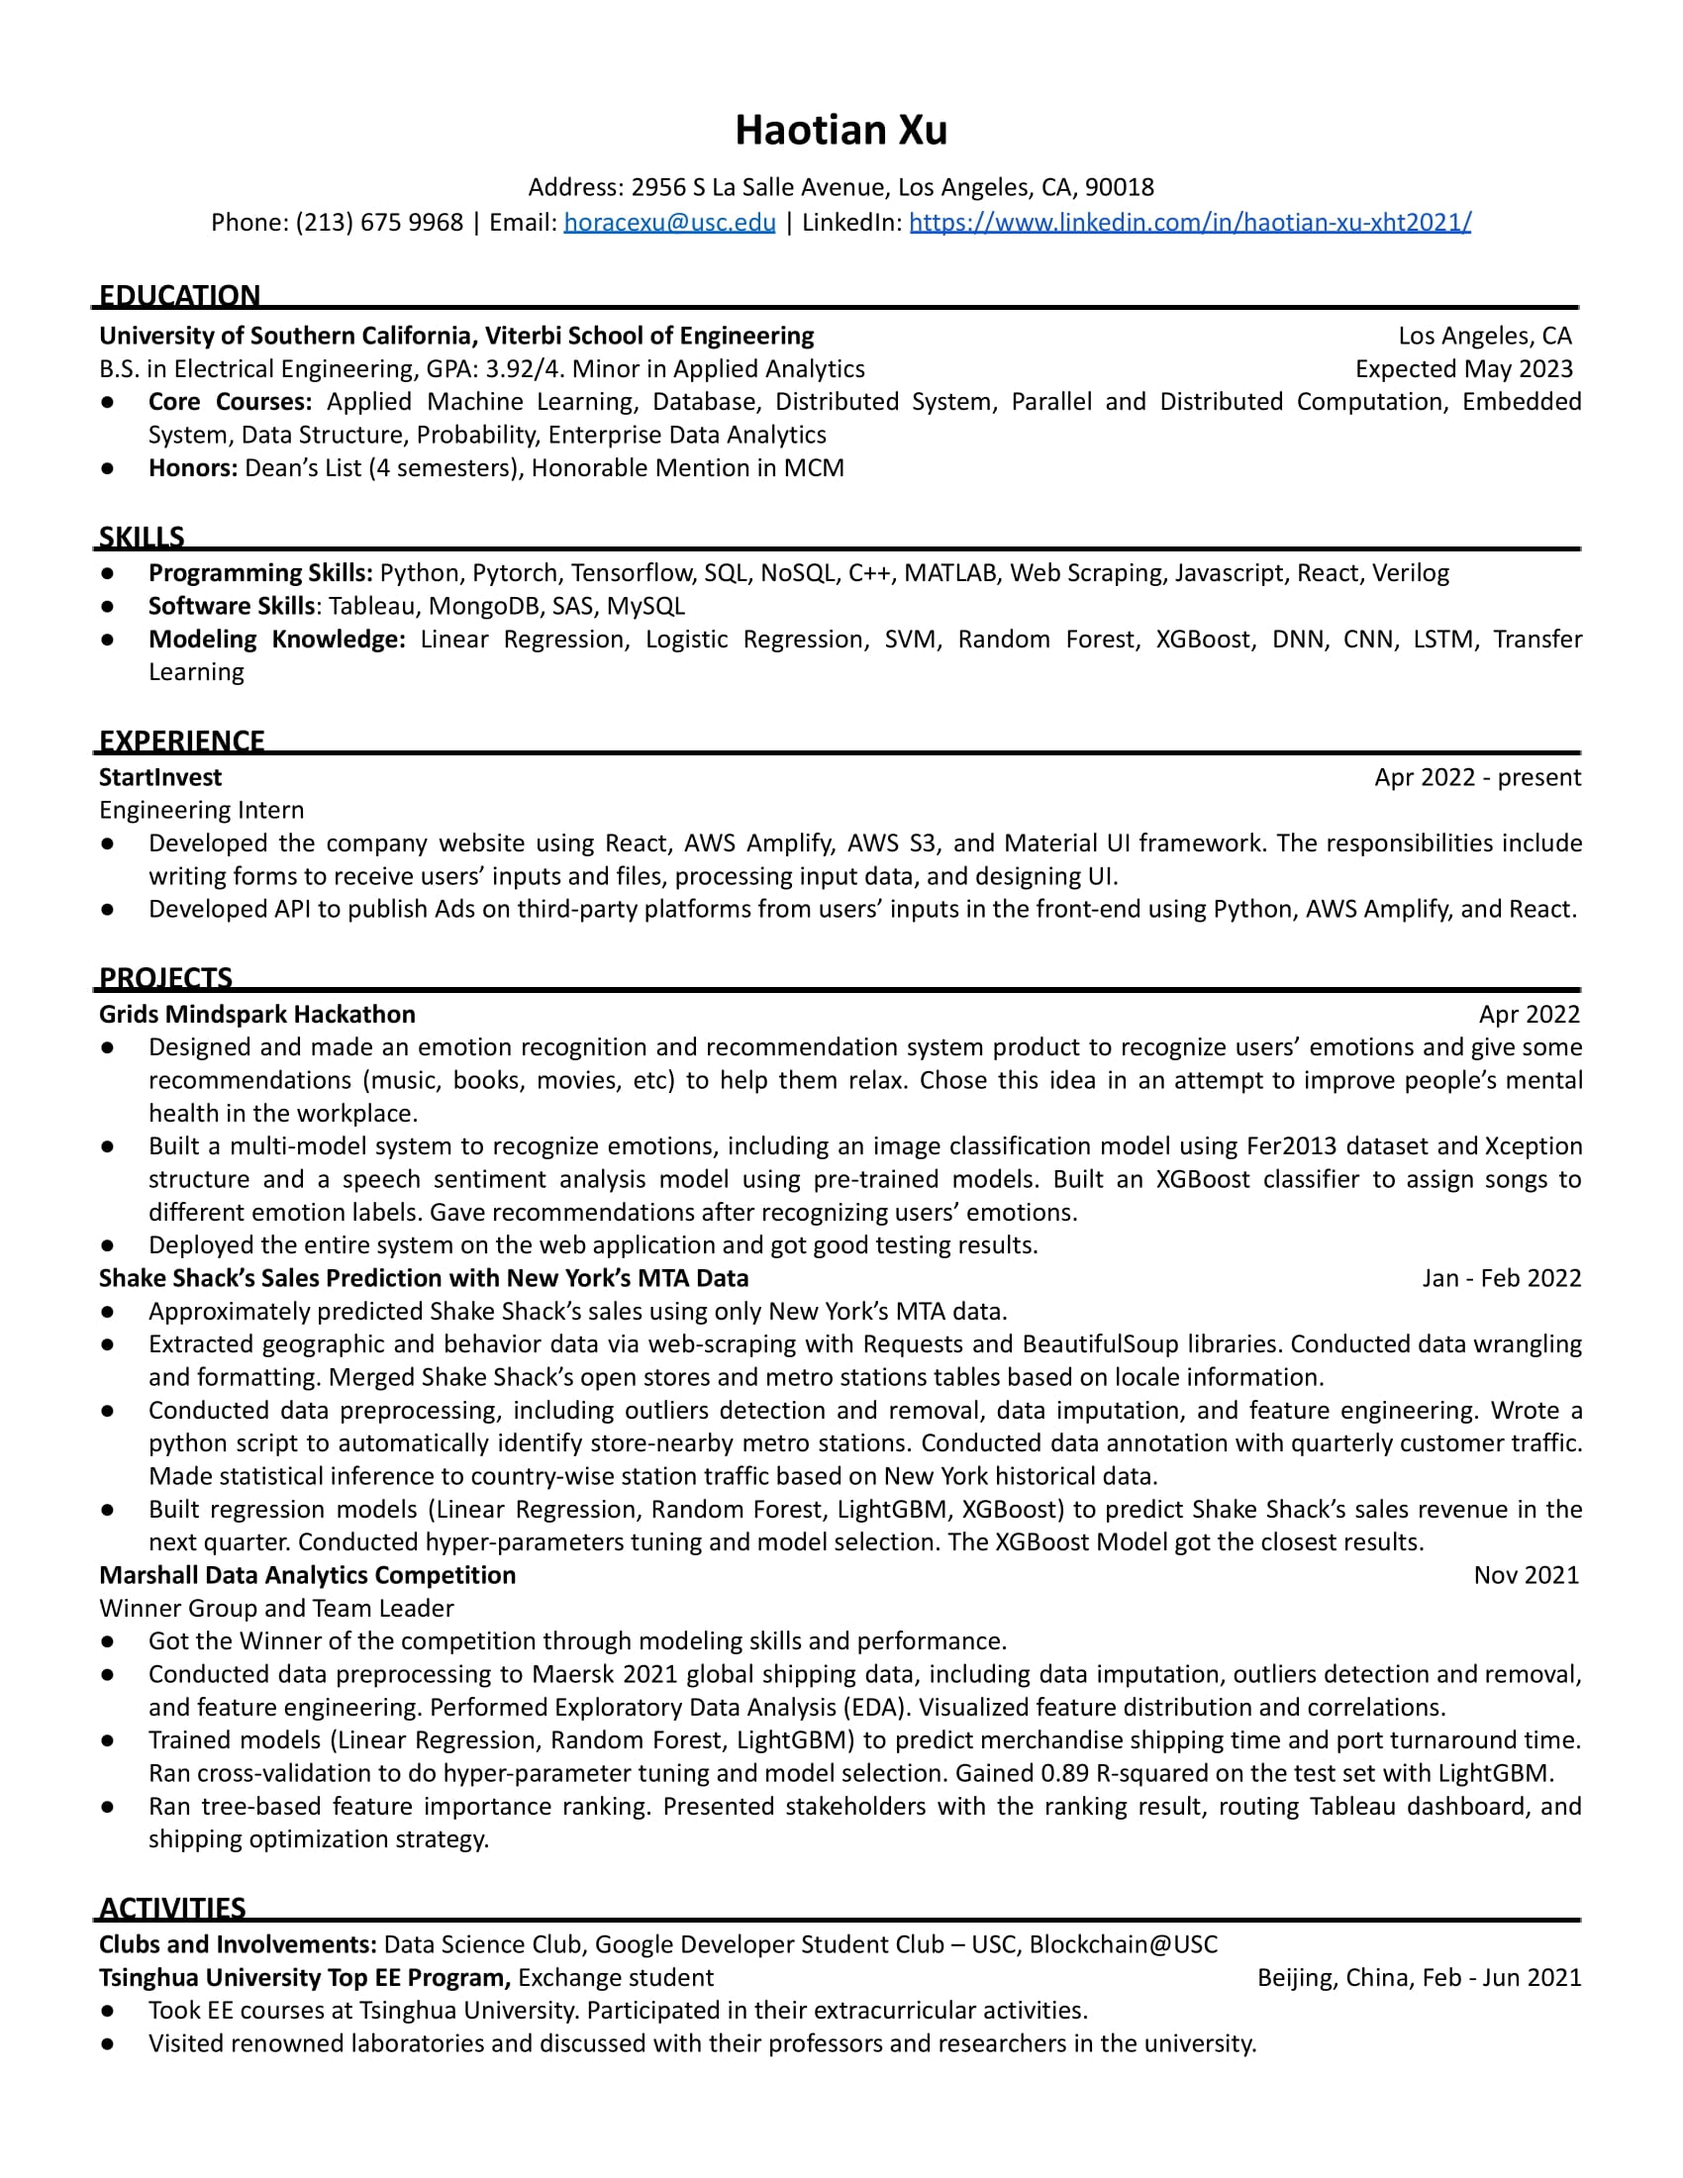
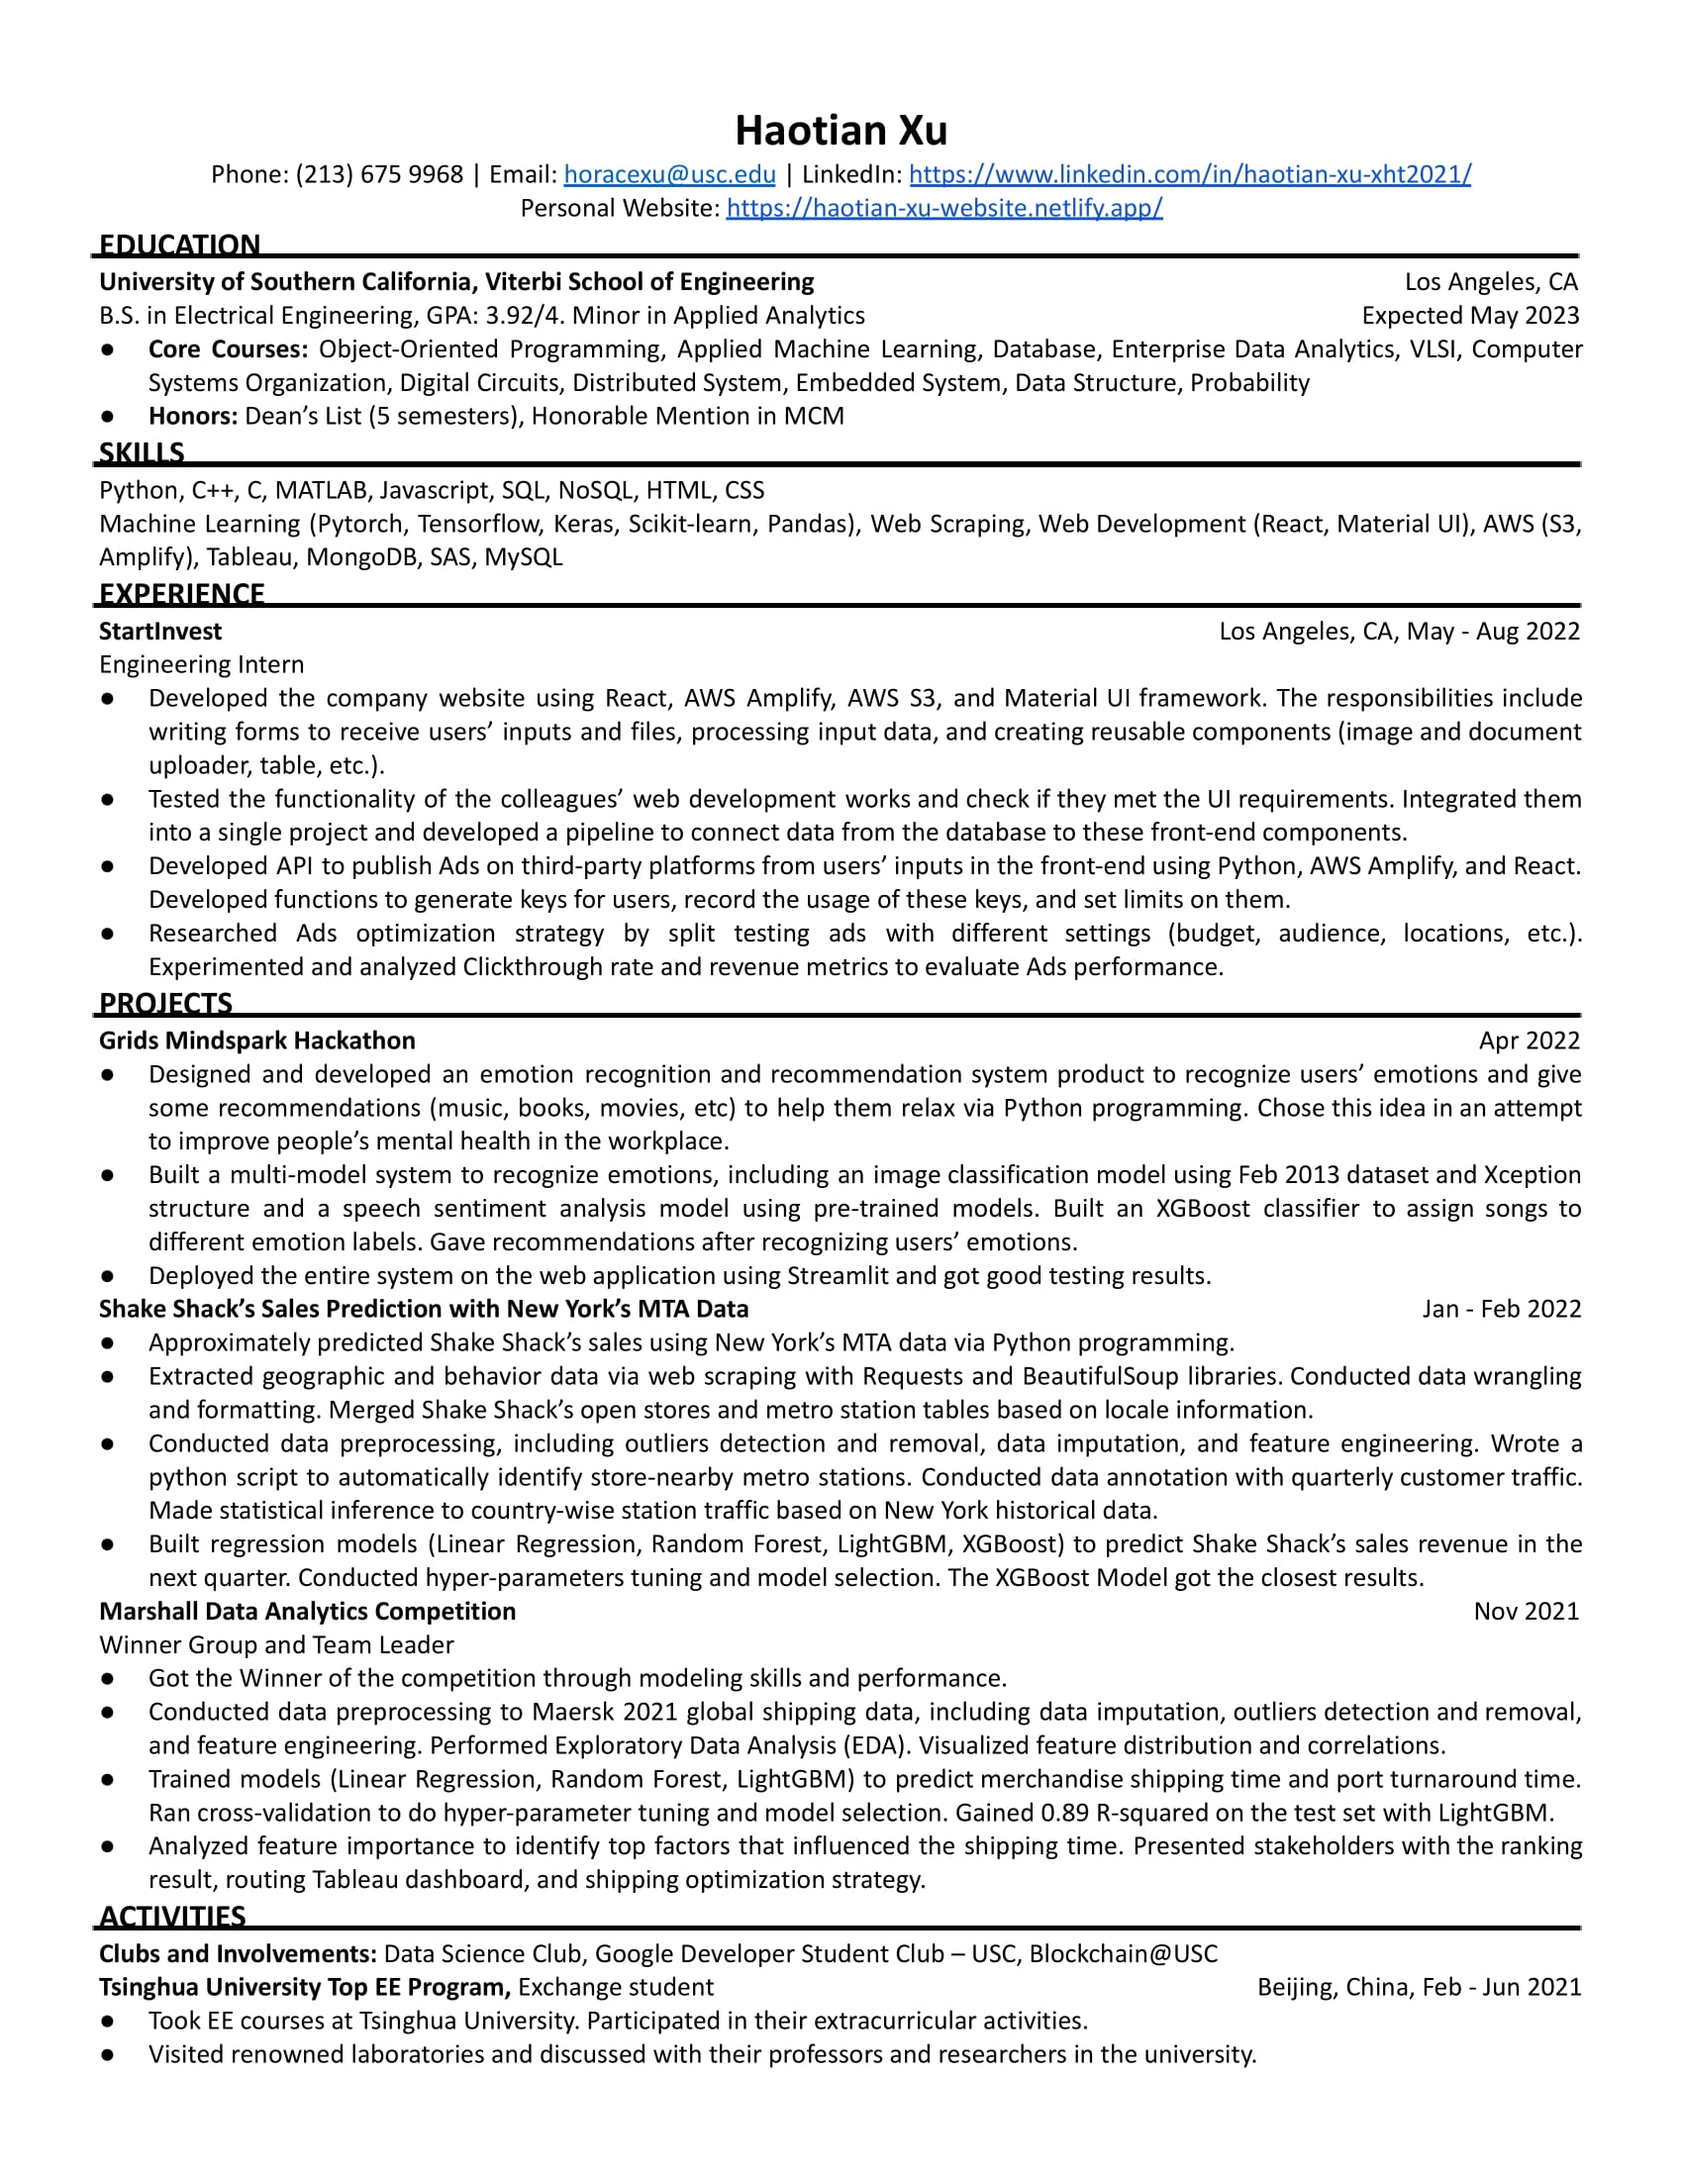
change resume and photo

Changed region(s): [[0.0624, 0.0618, 0.9353, 0.9582]]

diff --git a/src/components/project/Project.jsx b/src/components/project/Project.jsx
@@ -39,7 +39,7 @@ const Project = () => {
                         flexDirection: { xs: 'column', sm: 'row' }, mr: 'auto', alignItems: 'flex-start',
                     }}>
                         
-                        <Card variant="outlined" sx={{ maxWidth: {lg:'28%', md:'40%', xs:'80%'}, ml: 'auto', mr: 'auto' }}>
+                        <Card variant="outlined" sx={{ width: {lg:'28%', md:'40%', xs:'80%'}, ml: 'auto', mr: 'auto' }}>
                             <CardOverflow>
                                 <AspectRatio ratio="2">
                                     <img
@@ -67,7 +67,7 @@ const Project = () => {
                                         Demo</Button></a>
                             </div>
                         </Card>
-                        <Card variant="outlined" sx={{ maxWidth: {lg:'28%', md:'40%', xs:'80%'}, ml: 'auto', mr: 'auto' }}>
+                        <Card variant="outlined" sx={{ width: {lg:'28%', md:'40%', xs:'80%'}, ml: 'auto', mr: 'auto' }}>
                             <CardOverflow>
                                 <AspectRatio ratio="2">
                                     <img
@@ -95,7 +95,7 @@ const Project = () => {
                                         Demo Video</Button></a>
                             </div>
                         </Card>
-                        <Card variant="outlined" sx={{ maxWidth: {lg:'28%', md:'40%', xs:'80%'}, ml: 'auto', mr: 'auto' }}>
+                        <Card variant="outlined" sx={{ width: {lg:'28%', md:'40%', xs:'80%'}, ml: 'auto', mr: 'auto' }}>
                             <CardOverflow>
                                 <AspectRatio ratio="2">
                                     <img
@@ -123,7 +123,7 @@ const Project = () => {
                                     Demo</Button>
                             </div>
                         </Card>
-                        <Card variant="outlined" sx={{ maxWidth: {lg:'28%', md:'40%', xs:'80%'}, ml: 'auto', mr: 'auto' }}>
+                        <Card variant="outlined" sx={{ width: {lg:'28%', md:'40%', xs:'80%'}, ml: 'auto', mr: 'auto' }}>
                             <CardOverflow>
                                 <AspectRatio ratio="2">
                                     <img
@@ -151,7 +151,7 @@ const Project = () => {
                                     Demo</Button>
                             </div>
                         </Card>
-                        <Card variant="outlined" sx={{ maxWidth: {lg:'28%', md:'40%', xs:'80%'}, ml: 'auto', mr: 'auto' }}>
+                        <Card variant="outlined" sx={{ width: {lg:'28%', md:'40%', xs:'80%'}, ml: 'auto', mr: 'auto' }}>
                             <CardOverflow>
                                 <AspectRatio ratio="2">
                                     <img
@@ -179,9 +179,9 @@ const Project = () => {
                                     Demo</Button>
                             </div>
                         </Card>
-                        <Card variant="outlined" sx={{ maxWidth: {lg:'28%', md:'40%', xs:'80%'}, ml: 'auto', mr: 'auto', visibility:'hidden' }}>
+                        <Card variant="outlined" sx={{ width: {lg:'28%', md:'40%', xs:'80%'}, ml: 'auto', mr: 'auto', visibility:'hidden' }}>
                         <Typography level="body3" sx={{ mb: 1 }}>
-                                1111111111111111111111111111111 11111111111111111111111111111111
+                                111111111111111111111111 111111111 111111111111 1111111111111 1111111111
                             </Typography>
                         </Card>
                     </Box>

diff --git a/src/components/About/About.jsx b/src/components/About/About.jsx
@@ -10,7 +10,8 @@ import DownloadIcon from '@mui/icons-material/Download';
 import LinkedInIcon from '@mui/icons-material/LinkedIn';
 import EmailIcon from '@mui/icons-material/Email';
 import ChatIcon from '@mui/icons-material/Chat';
-import photo from '../../assets/photo_Haotian Xu.jpg'
+import photo from '../../assets/photo_Haotian Xu.jpg';
+import img from '../../assets/Photo_Haotian_Xu_Startinvest.jpg'
 const About = () => {
   return (
     <CssVarsProvider>
@@ -25,11 +26,11 @@ const About = () => {
         gap: 2,
         border: 0,
       }}>
-        <a href="https://ibb.co/6smsrj2" style={{
+        <a href="#" style={{
           marginLeft: 'auto', marginRight: 'auto'
         }}>
-          <Avatar alt="HAOTIAN XU" src={photo} size='lg' sx={{
-            width: 'auto', height: '20vh'
+          <Avatar alt="HAOTIAN XU" src={img} size='lg' sx={{
+            width: '20vh', height: '20vh', objectFit:'contain'
           }} />
         </a>
         <Typography level="h4" sx={{
